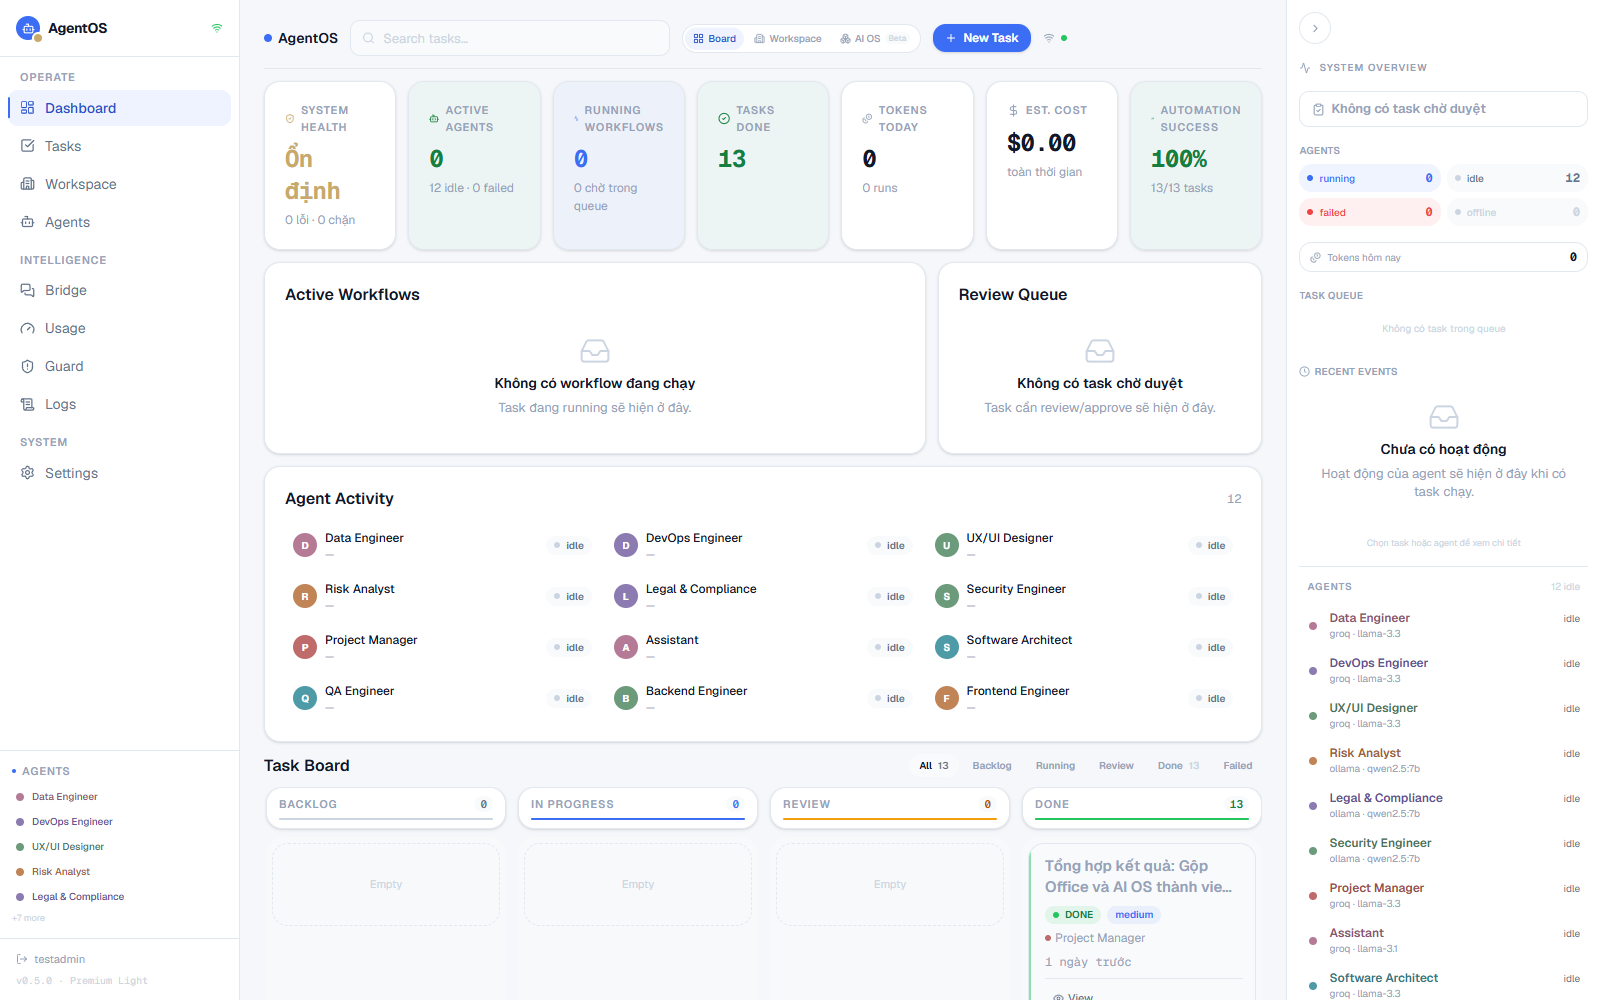
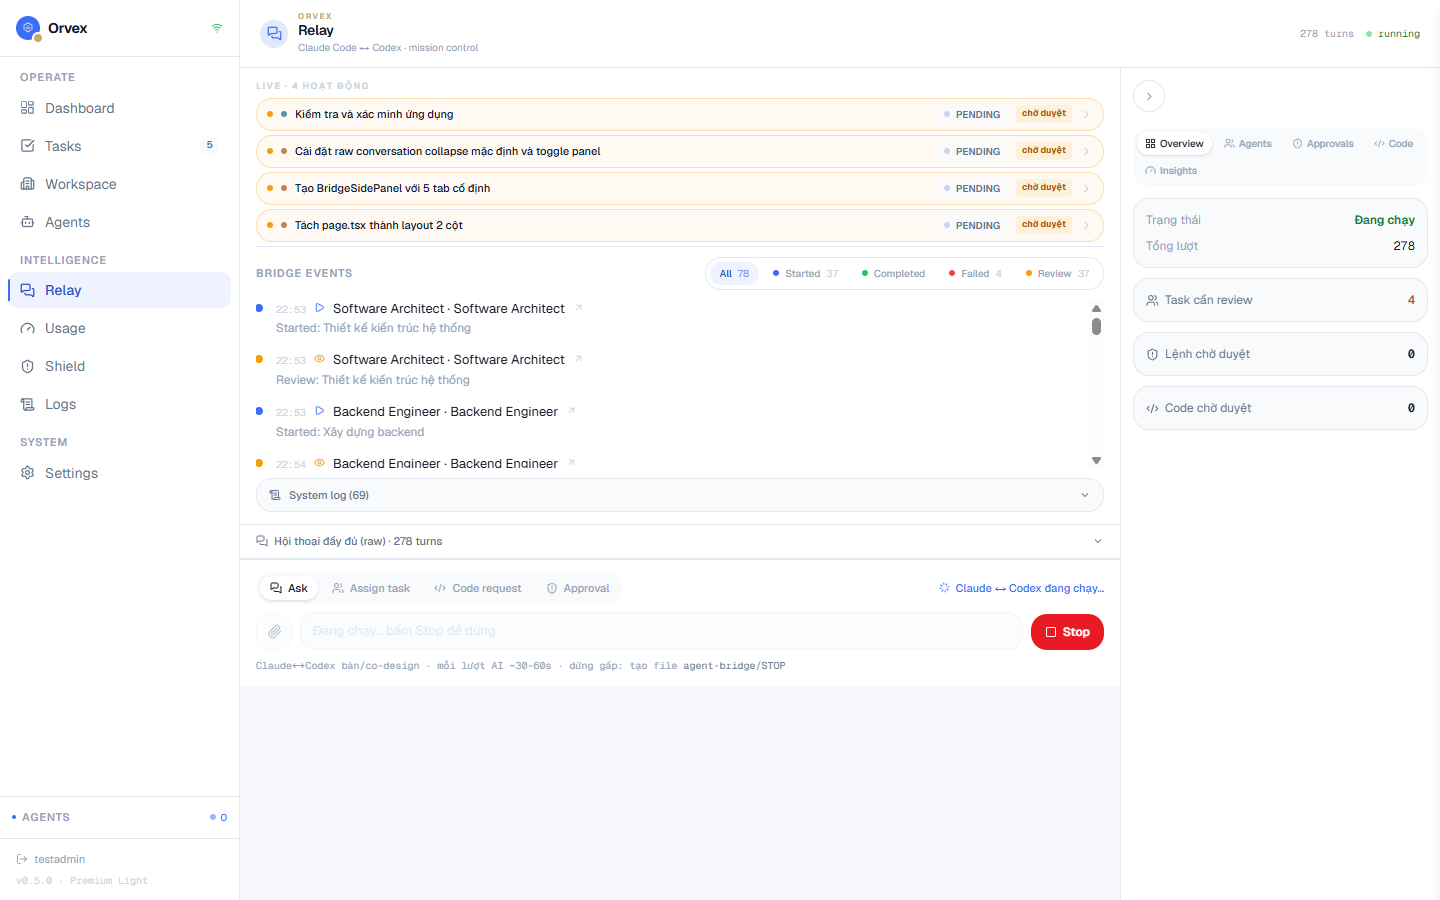
Refresh README screenshots

diff --git a/README.md b/README.md
@@ -18,15 +18,16 @@ logic. It only calls the Kaelix HTTP API configured by the user.
 ## Screenshots
 
 The MCP adapter is designed to control a self-hosted Kaelix Dashboard instance
-like the one below.
+like the one below. Screenshots may show an earlier dashboard theme while the
+Kaelix rename is still in progress.
 
 ![Kaelix dashboard overview](docs/images/dashboard.png)
 
-| Agents | Relay |
+| Approvals | Code review |
 | --- | --- |
-| ![Kaelix agents view](docs/images/agents.png) | ![Kaelix relay view](docs/images/relay.png) |
+| ![Kaelix approvals view](docs/images/approvals.png) | ![Kaelix code review view](docs/images/code-review.png) |
 
-![Kaelix provider settings](docs/images/providers.png)
+![Kaelix inspector view](docs/images/inspector.png)
 
 ## Architecture
 
